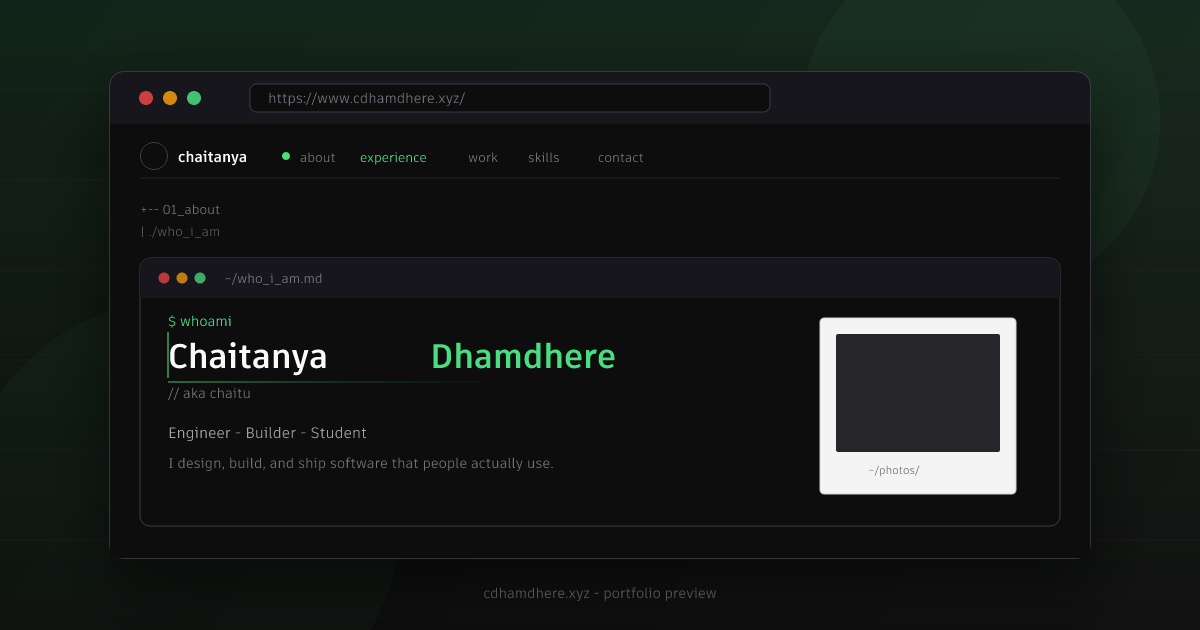
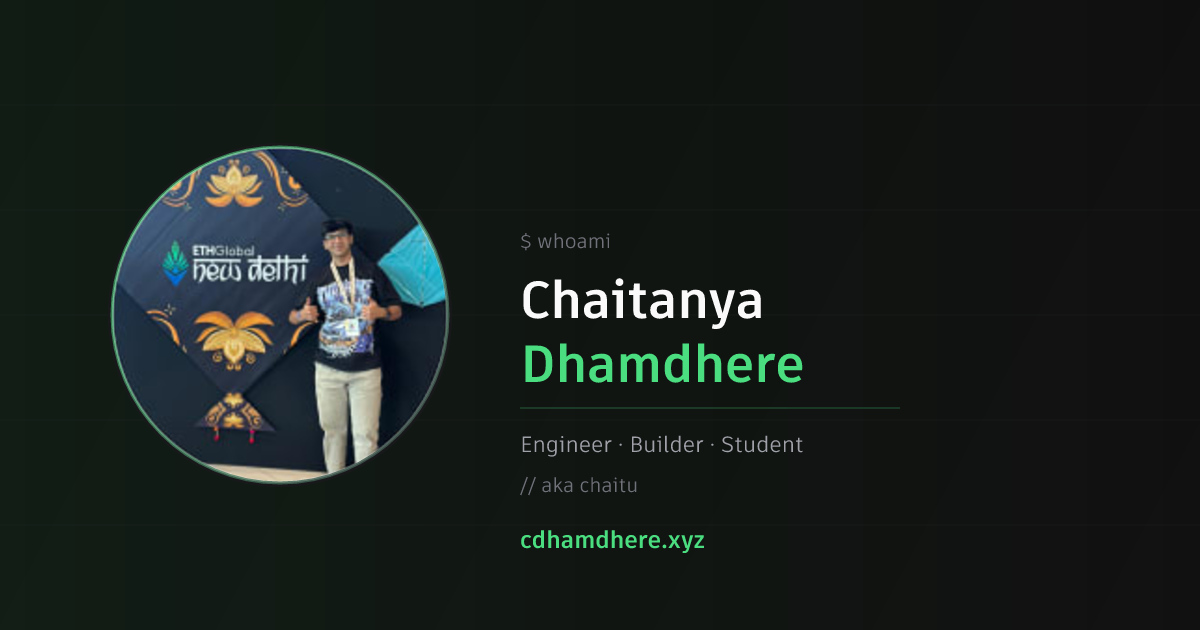
fix: update Open Graph metadata and enhance portfolio image
- Revised Open Graph image alt text for clarity and branding.
- Updated SVG for the portfolio preview, improving visual elements and layout.
- Adjusted styles for better alignment with the overall design aesthetic.

diff --git a/index.html b/index.html
@@ -77,7 +77,7 @@
     <meta property="og:image:height" content="630" />
     <meta
       property="og:image:alt"
-      content="Preview of Chaitanya Dhamdhere portfolio website at cdhamdhere.xyz"
+      content="Chaitanya Dhamdhere — circular profile photo beside cdhamdhere.xyz portfolio link preview"
     />
 
     <!-- Twitter / X -->
@@ -92,7 +92,7 @@
     <meta name="twitter:image" content="https://www.cdhamdhere.xyz/og.png" />
     <meta
       name="twitter:image:alt"
-      content="Preview of Chaitanya Dhamdhere portfolio website at cdhamdhere.xyz"
+      content="Chaitanya Dhamdhere — circular profile photo beside cdhamdhere.xyz portfolio link preview"
     />
 
     <style>
